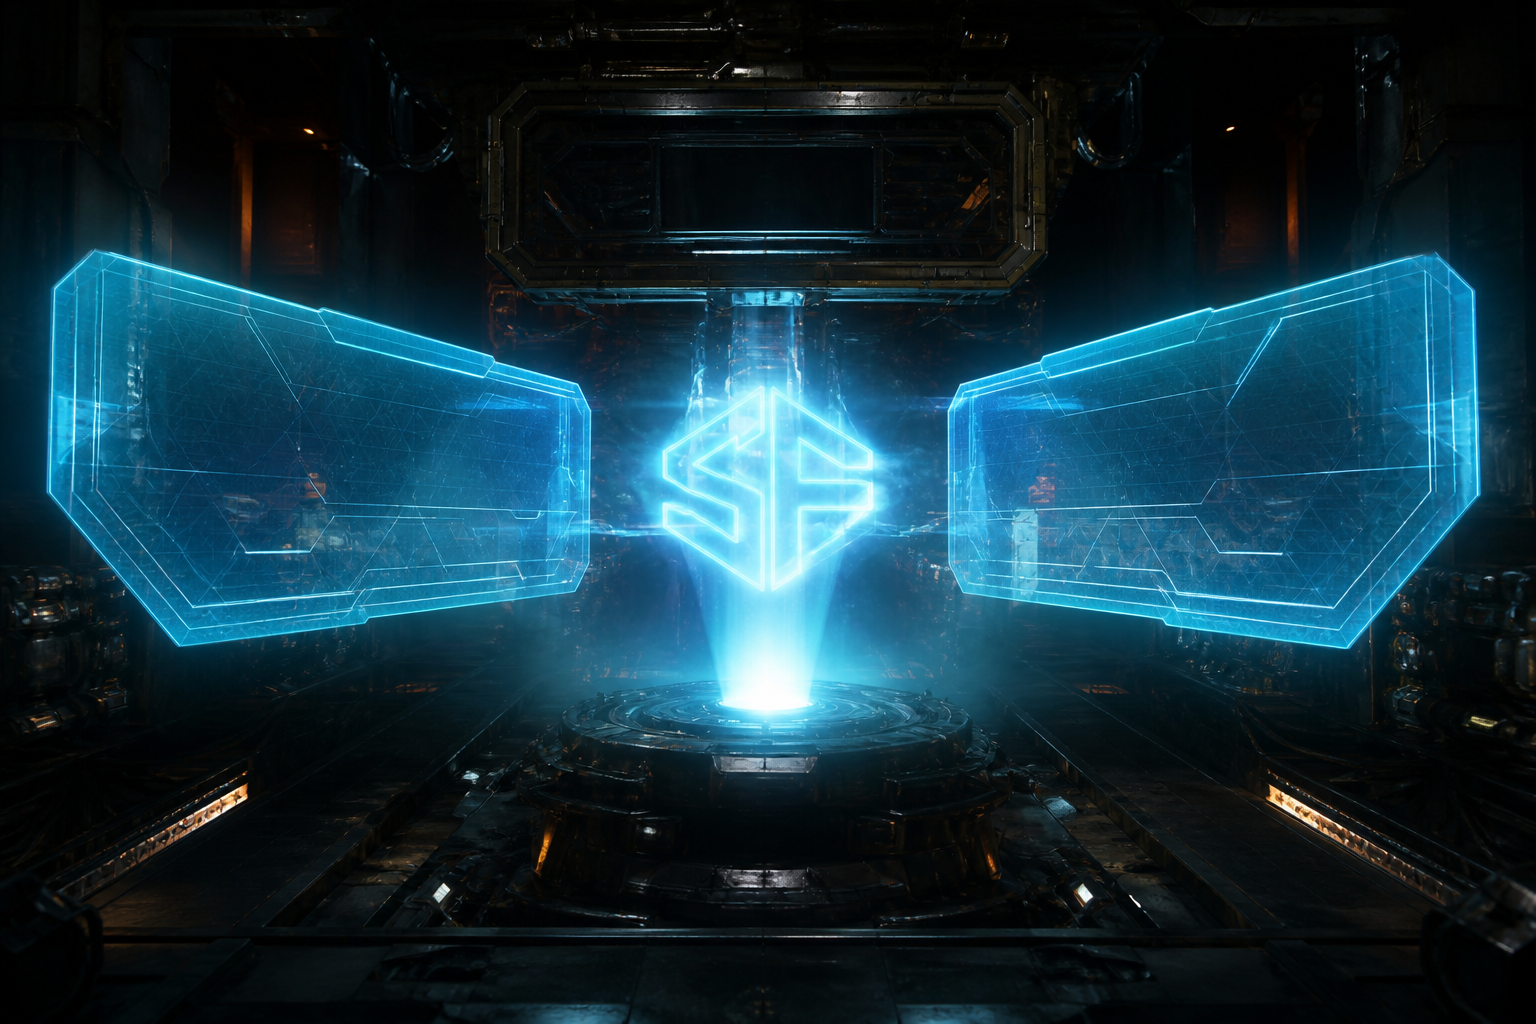
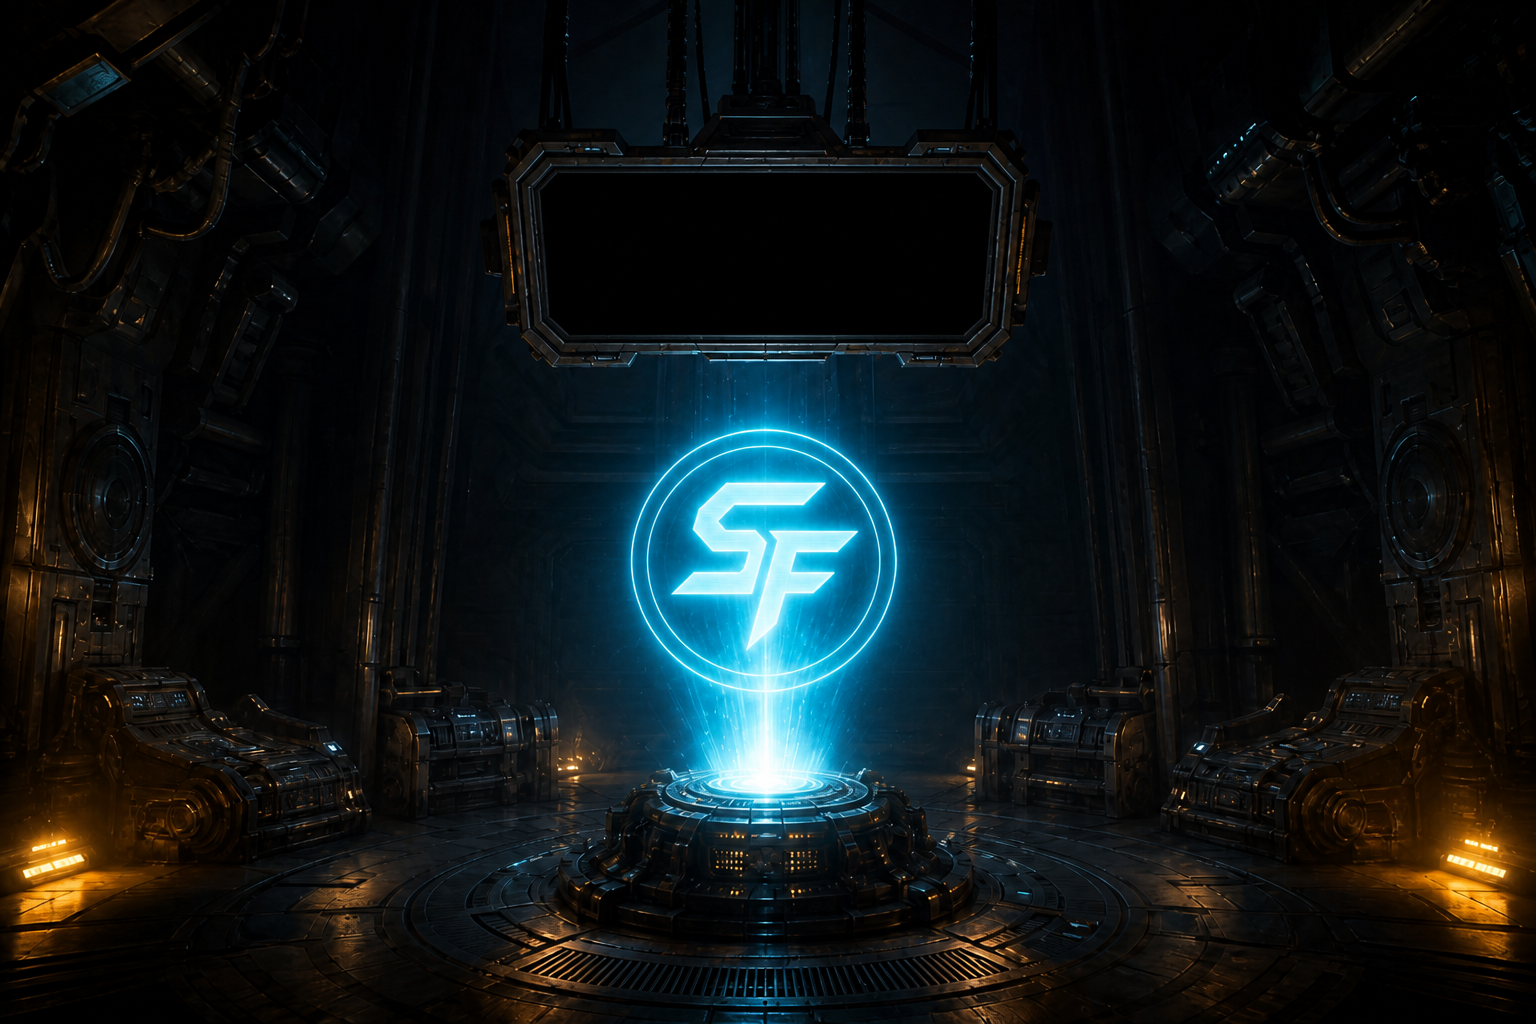
fix(forge-lab): Option A empty-air holograms at ±4°
Stop hybrid misalignment: plates no longer paint yawed side frames.
HTML HoloPanel owns edge, frost, and UI as one perspective rotateY
element. Yaw is 4°. Emit plate is frameless too.

diff --git a/tests/unit/forge-lab-hotspots.test.ts b/tests/unit/forge-lab-hotspots.test.ts
@@ -52,8 +52,8 @@ describe('Forge Lab hotspot map', () => {
     expect(RIGHT_HOLO_SLOT.left).toBeGreaterThan(FORGE_CORE.cx);
   });
 
-  it('freezes the hybrid dock map including ±5° yaw', () => {
-    expect(HOLO_YAW_DEG).toBe(5);
+  it('freezes the Option A dock map including ±4° yaw', () => {
+    expect(HOLO_YAW_DEG).toBe(4);
     expect(HOLO_PERSPECTIVE_PX).toBe(1200);
     expect(TOP_MONITOR_GLASS).toMatchObject({
       left: 27.4,
@@ -75,14 +75,14 @@ describe('Forge Lab hotspot map', () => {
       top: 30.5,
       width: 20.8,
       height: 42,
-      yaw: -5,
+      yaw: -4,
     });
     expect(RIGHT_HOLO_SLOT).toMatchObject({
       left: 72,
       top: 30.5,
       width: 20.8,
       height: 42,
-      yaw: 5,
+      yaw: 4,
     });
   });
 
@@ -90,8 +90,8 @@ describe('Forge Lab hotspot map', () => {
     expect(slotOrigin(LEFT_HOLO_SLOT)).toBe('right center');
     expect(slotOrigin(RIGHT_HOLO_SLOT)).toBe('left center');
     expect(slotOrigin(TOP_MONITOR_GLASS)).toBe('center center');
-    expect(slotTransform(LEFT_HOLO_SLOT)).toBe('perspective(1200px) rotateY(-5deg)');
-    expect(slotTransform(RIGHT_HOLO_SLOT)).toBe('perspective(1200px) rotateY(5deg)');
+    expect(slotTransform(LEFT_HOLO_SLOT)).toBe('perspective(1200px) rotateY(-4deg)');
+    expect(slotTransform(RIGHT_HOLO_SLOT)).toBe('perspective(1200px) rotateY(4deg)');
     expect(slotTransform(TOP_MONITOR_GLASS)).toBe('perspective(1200px) rotateY(0deg)');
 
     const left = dockSlotStyle(LEFT_HOLO_SLOT);
@@ -101,10 +101,10 @@ describe('Forge Lab hotspot map', () => {
       top: '30.5%',
       width: '20.8%',
       height: '42%',
-      transform: 'perspective(1200px) rotateY(-5deg)',
+      transform: 'perspective(1200px) rotateY(-4deg)',
       transformOrigin: 'right center',
     });
-    expect(right.transform).toBe('perspective(1200px) rotateY(5deg)');
+    expect(right.transform).toBe('perspective(1200px) rotateY(4deg)');
     expect(right.transformOrigin).toBe('left center');
   });
 });

diff --git a/src/components/forge-lab/forge-lab.css b/src/components/forge-lab/forge-lab.css
@@ -10,7 +10,7 @@
   --fl-text: #e8f7ff;
   --fl-text-dim: #b7d4e4;
   --fl-focus: #7ef0ff;
-  /* Hybrid dock blend — HTML HoloPanels share the empty plate frames. */
+  /* Option A — HTML owns the entire hologram (edge + frost + glow). */
   --fl-holo-edge: rgba(77, 233, 255, 0.55);
   --fl-holo-fill: rgba(8, 18, 36, 0.32);
   --fl-holo-fill-active: rgba(10, 24, 48, 0.42);
@@ -312,6 +312,7 @@ html.light .fl-hub .fl-lab[aria-selected='true'] {
   line-height: 1.35;
 }
 
+/* One transformed hologram: border + frost + children share rotateY. */
 .fl-panel {
   position: absolute;
   display: flex;
@@ -319,7 +320,7 @@ html.light .fl-hub .fl-lab[aria-selected='true'] {
   min-width: 0;
   padding: 10px 12px;
   overflow: hidden;
-  border: 1px solid var(--fl-holo-edge);
+  border: 2px solid var(--fl-holo-edge);
   background: var(--fl-holo-fill);
   backdrop-filter: blur(var(--fl-holo-blur));
   -webkit-backdrop-filter: blur(var(--fl-holo-blur));

diff --git a/tests/unit/forge-lab-hub.test.tsx b/tests/unit/forge-lab-hub.test.tsx
@@ -52,11 +52,11 @@ describe('ForgeLabHub a11y + reduced motion', () => {
     const right = document.querySelector('.fl-panel[data-side="right"]') as HTMLElement;
     expect(left.tagName).toBe('SECTION');
     const monitor = document.querySelector('.fl-monitor') as HTMLElement;
-    expect(left.getAttribute('data-yaw')).toBe('-5');
-    expect(right.getAttribute('data-yaw')).toBe('5');
+    expect(left.getAttribute('data-yaw')).toBe('-4');
+    expect(right.getAttribute('data-yaw')).toBe('4');
     expect(monitor.getAttribute('data-yaw')).toBe('0');
-    expect(left.style.transform).toContain('rotateY(-5deg)');
-    expect(right.style.transform).toContain('rotateY(5deg)');
+    expect(left.style.transform).toContain('rotateY(-4deg)');
+    expect(right.style.transform).toContain('rotateY(4deg)');
     expect(left.style.transformOrigin).toBe('right center');
     expect(right.style.transformOrigin).toBe('left center');
   });

diff --git a/src/lib/forge-lab/hotspotMap.ts b/src/lib/forge-lab/hotspotMap.ts
@@ -9,6 +9,9 @@
 // Pixel pixels are never the hit target. z1 is an invisible DOM/SVG
 // map. To retune: open /dev/forge-lab?calibrate=1 and nudge these
 // constants. Do not click the image.
+//
+// Option A: world plates have NO side hologram frames. HTML HoloPanel
+// owns edge + frost + UI as one `perspective + rotateY` element.
 
 export const PLATE_WIDTH_PX = 1536;
 export const PLATE_HEIGHT_PX = 1024;
@@ -30,8 +33,11 @@ export const WORLD_MEDIA = {
   },
 } as const;
 
-/** Shared dock yaw (degrees). Left slot is −HOLO_YAW_DEG, right is +HOLO_YAW_DEG. */
-export const HOLO_YAW_DEG = 5;
+/**
+ * Option A dock yaw (degrees). HTML owns the entire hologram.
+ * Left slot is −HOLO_YAW_DEG, right is +HOLO_YAW_DEG. Plate has no side frames.
+ */
+export const HOLO_YAW_DEG = 4;
 /** Perspective distance for `rotateY` on docked hologram slots. */
 export const HOLO_PERSPECTIVE_PX = 1200;
 

diff --git a/docs/forge-lab-hub.md b/docs/forge-lab-hub.md
@@ -18,37 +18,37 @@ Video/still pixels are never the click target.
 |---|---|
 | **z0** | World plate. Still images now (`public/forge-lab/00-locked-hub-dark-sf.png` + idle/charge/emit/docked keyframes). `WORLD_MEDIA.loopVideo` is the hook for a later encode. |
 | **z1** | Invisible DOM buttons aligned to the plate (`HotspotMap`). SF core, pedestal, top-monitor glass, left/right docks. |
-| **z2** | Real React UI: `ForgeCore` (live SF), `TopMonitor` HUD fitted 1:1 in the bezel glass (yaw 0), `HoloPanel`s that emit from SF and dock into the empty hologram frames. |
+| **z2** | Real React UI: `ForgeCore` (live SF), `TopMonitor` HUD fitted 1:1 in the bezel glass (yaw 0), `HoloPanel`s that emit from SF and float in empty air. |
 
-`?calibrate=1` on `/dev/forge-lab` outlines the hit map. Outlines use the **same** `%` box + yaw as the HTML overlays (`dockSlotStyle`).
+`?calibrate=1` on `/dev/forge-lab` outlines the hit map. Outlines use the **same** `%` box + yaw as the HTML overlays (`dockSlotStyle`) — HTML bounds after yaw.
 
 ---
 
-## Hybrid dock (owner-locked)
+## Option A (owner-locked)
 
-Docked world plate is `public/forge-lab/04-docked.png` (**04-docked-hybrid-exact-slots**). The plate already paints empty left/right hologram frames. HTML `HoloPanel`s sit in those frames and **blend as one semi-translucent control surface** — not white cards, not a second opaque HUD.
+World plates have **no side hologram frames**. Left/right of the SF core is empty air (dark lab walls only). HTML `HoloPanel` owns the **entire** hologram — cyan edge, frosted fill, glow, and UI — as **one** transformed element.
 
-Art frames **must match** `src/lib/forge-lab/hotspotMap.ts`. If a new plate moves a frame, change the plate or the map together. Do not invent a second coordinate system.
+Do **not** paint yawed trapezoids into the art and overlay a second HTML box. That split (hybrid dock) is what caused the misalignment: plate frames yawed, HTML sat flat.
+
+Docked plate: `public/forge-lab/04-docked.png` (Option A empty-air). Emit plate is also frameless so the charge→emit crossfade does not flash painted frames.
 
 ### Frozen map — 1536×1024 plate
 
 Locked plates are **1536×1024 (3:2)**. The stage is a letterboxed box with `aspect-ratio: 1536 / 1024` and `object-fit: contain`. Every hotspot is a **percent of that stage**, not of the viewport.
 
-`HOLO_YAW_DEG = 5`. Docked HoloPanels use `perspective(1200px) rotateY(yawdeg)`. Transform-origin faces SF: left panel `right center`, right panel `left center`.
+`HOLO_YAW_DEG = 4`. Docked HoloPanels use `perspective(1200px) rotateY(yawdeg)` on the **same** element that draws the hologram chrome. Transform-origin faces SF: left panel `right center`, right panel `left center`.
 
 | Region | Box (% of plate) | Yaw |
 |---|---|---|
 | `TOP_MONITOR_GLASS` | `27.4, 2.6, 45.2 × 17.8` | `0` — HUD stays flat in the bezel glass |
 | `FORGE_CORE` | circle `cx 50, cy 49.2, r 9.4` | — |
 | `PEDESTAL` | `36.5, 70.5, 27 × 18.5` | `0` |
-| `LEFT_HOLO_SLOT` | `7.2, 30.5, 20.8 × 42` | `−5` |
-| `RIGHT_HOLO_SLOT` | `72, 30.5, 20.8 × 42` | `+5` |
+| `LEFT_HOLO_SLOT` | `7.2, 30.5, 20.8 × 42` | `−4` |
+| `RIGHT_HOLO_SLOT` | `72, 30.5, 20.8 × 42` | `+4` |
 
-Nudge those numbers only after `?calibrate=1` proves a miss. Report any % change. Do not click the pixels.
+### Blend tokens (HoloPanel CSS — HOLO_BLEND)
 
-### Blend tokens (HoloPanel CSS)
-
-Shared with the empty plate frames:
+HTML draws these; the plate does not.
 
 | Token | Value |
 |---|---|
@@ -60,7 +60,7 @@ Shared with the empty plate frames:
 
 CSS variables on `.fl-hub`: `--fl-holo-edge`, `--fl-holo-fill`, `--fl-holo-fill-active`, `--fl-holo-blur`, `--fl-holo-glow`.
 
-The hub root is `data-surface="dark"` and HoloPanels are `<section>`s so the a11y `.light aside` remap cannot paint them as white cards. Blend tokens stay in force under `html.light`.
+The hub root is `data-surface="dark"` and HoloPanels are `<section>`s so the a11y `.light aside` remap cannot paint them as white cards.
 
 ---
 
@@ -80,6 +80,7 @@ State machine: `idle → charge → emit → docked` (`src/lib/forge-lab/portalM
 - Panoramic ~38–50M-triangle cockpit hull, OrbitControls, persistent `CockpitCanvas`.
 - Clickable video/image pixels without DOM twins.
 - Mission Control’s space-station console / ellipse of lab pods / optional WebGL backdrop.
+- Hybrid dock (painted yawed frames + flat HTML overlays).
 - Rewriting 42 games or the marketing site.
 - A SaaS header in the top glass — the bezel gets lab name, XP/streak gauges, and a Sparky one-liner.
 
@@ -98,7 +99,7 @@ NEXT_PUBLIC_FORGE_LAB_HUB=true
 
 ## Known limitations
 
-- Idle/charge/emit plates are generated stand-ins matching the indoor-lab brief. The **docked** plate is the owner-locked hybrid (`04-docked-hybrid-exact-slots`).
+- Idle/charge plates are generated stand-ins. Docked/emit are Option A empty-air (no side frames).
 - Still plates + CSS crossfade only — no Grok Video encode.
 - Game bay and avatar kit are labeled stubs (`data-slot="game-shell"` / `data-slot="avatar-creator"`).
 - Authenticated `/forge-lab` needs the flag on at build time (`NEXT_PUBLIC_*`).

diff --git a/public/forge-lab/README.md b/public/forge-lab/README.md
@@ -2,11 +2,14 @@
 
 Locked indoor forge-lab stills for the hotspot hub (`/dev/forge-lab`).
 
+**Option A:** plates must not paint side hologram frames. HTML `HoloPanel` owns the cyan edge, frost, and UI at ±4° yaw.
+
 | File | Role |
 |---|---|
-| `00-locked-hub-dark-sf.png` | Default idle world plate (1536×1024) |
+| `00-locked-hub-dark-sf.png` | Default idle world plate (1536×1024), empty air L/R |
 | `00-sf-monogram-closeup.png` | SF core reference (1024×1024) |
-| `01-idle.png` … `03-emit.png` | Portal keyframes (generated stand-ins) |
-| `04-docked.png` | Owner-locked hybrid dock plate (`04-docked-hybrid-exact-slots`, 1536×1024). Empty L/R hologram frames must match `hotspotMap.ts` ±5° yaw. |
+| `01-idle.png` … `02-charge.png` | Portal keyframes (empty air L/R) |
+| `03-emit.png` | Emit keyframe — frameless (no painted L/R holograms) |
+| `04-docked.png` | Option A empty-air dock plate (1536×1024). SF core + hanging bezel only. |
 
 To add a looping encode later, drop a `.webm` here and set `WORLD_MEDIA.loopVideo` in `src/lib/forge-lab/hotspotMap.ts`.
